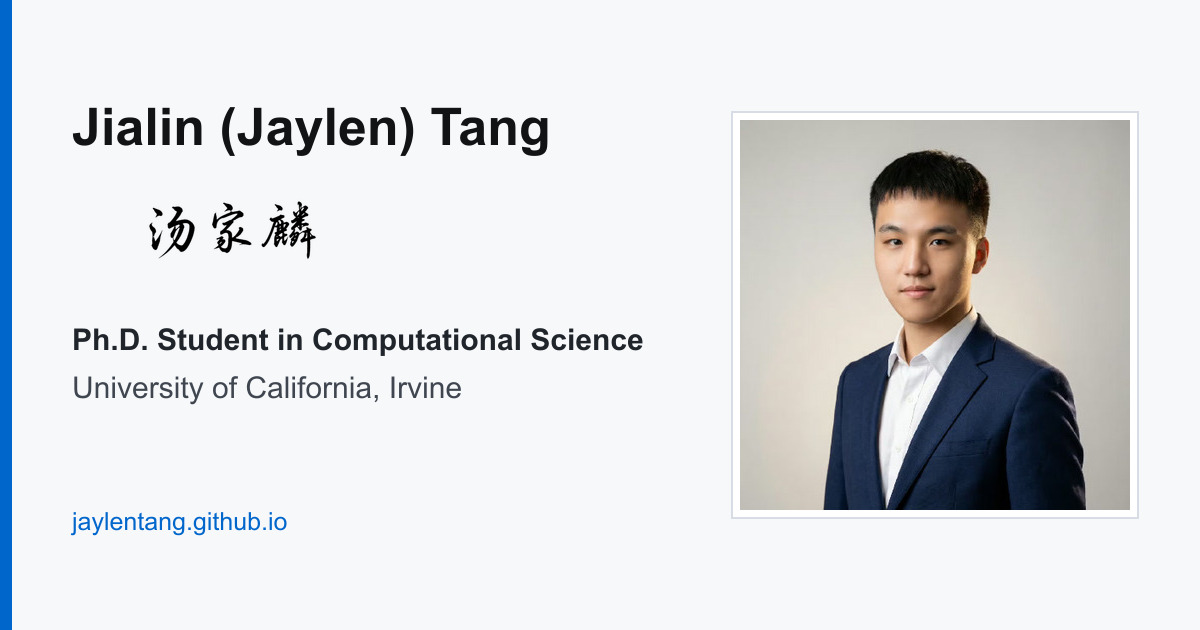
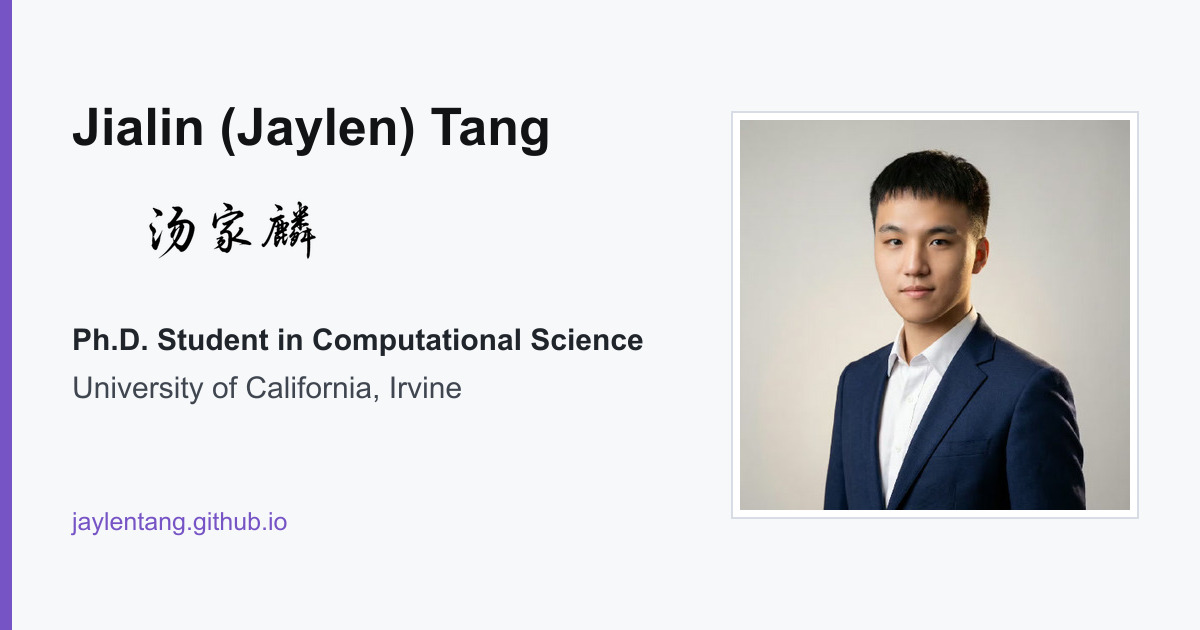
Normalize academic site content data

Changed region(s): [[0.0, 0.0, 0.0308, 1.0], [0.0617, 0.8143, 0.2467, 0.8444]]

diff --git a/_includes/v2-news-list.html b/_includes/v2-news-list.html
@@ -1,0 +1,9 @@
+{% assign news = include.news %}
+<div class="v2-news-list" role="list">
+  {% for item in news %}
+    <article class="v2-news-item" role="listitem">
+      <time datetime="{{ item.date | date: '%Y-%m-%d' }}">{{ item.display_date | escape }}</time>
+      <div class="v2-news-item__content">{{ item.content | markdownify }}</div>
+    </article>
+  {% endfor %}
+</div>

diff --git a/_pages/home-v2.md b/_pages/home-v2.md
@@ -48,44 +48,7 @@ redirect_from:
 
   <section class="v2-section v2-news" aria-labelledby="v2-news-title">
     <h2 id="v2-news-title">news</h2>
-    <ol class="v2-news-list">
-      <li class="v2-news-item">
-        <time datetime="2026-06-17">Jun 17, 2026</time>
-        <p><a href="https://doi.org/10.1109/JSTARS.2026.3705708">HyperMODE</a> was accepted for publication in <a href="https://www.grss-ieee.org/publications/journal-of-selected-topics-in-applied-earth-observations-and-remote-sensing/"><em>IEEE Journal of Selected Topics in Applied Earth Observations and Remote Sensing</em></a> (JSTARS).</p>
-      </li>
-      <li class="v2-news-item">
-        <time datetime="2026-05-16">May 16, 2026</time>
-        <p>PRISM-Stain received the 3rd-place poster award at the SABPA OC/LA 18th Annual Biomedical Forum Poster Competition. <a href="https://www.linkedin.com/feed/update/urn:li:activity:7463034204185083904/">post</a></p>
-      </li>
-      <li class="v2-news-item">
-        <time datetime="2026-05-15">May 15, 2026</time>
-        <p>Received the M.S. degree in Computer Science from California State University, Fullerton, with Graduate Academic Honors.</p>
-      </li>
-      <li class="v2-news-item">
-        <time datetime="2026-04-08">Apr 08, 2026</time>
-        <p>Received the <a href="https://grad.sdsu.edu/financial-support/pgrf">Presidential Graduate Research Fellowship</a> for the 2026&ndash;2027 academic year.</p>
-      </li>
-      <li class="v2-news-item">
-        <time datetime="2026-03-27">Mar 27, 2026</time>
-        <p>Defended my M.S. thesis at California State University, Fullerton.</p>
-      </li>
-      <li class="v2-news-item">
-        <time datetime="2026-01-05">Jan 05, 2026</time>
-        <p>Presented our EV wireless charging optimization and ASO efficacy modeling work at the <a href="https://ieee-ccwc.org/">IEEE 16th Annual Computing and Communication Workshop and Conference (CCWC) 2026</a>. <a href="https://www.linkedin.com/feed/update/urn:li:activity:7414165378937044993/">post</a></p>
-      </li>
-      <li class="v2-news-item">
-        <time datetime="2025-11-17">Nov 17, 2025</time>
-        <p><a href="https://ieeexplore.ieee.org/document/11468028">MAS-LLaVA</a> was accepted by the <a href="https://acdsa.org/2026/">IEEE International Conference on Artificial Intelligence, Computer, Data Sciences and Applications (ACDSA) 2026</a>.</p>
-      </li>
-      <li class="v2-news-item">
-        <time datetime="2025-11-14">Nov 14, 2025</time>
-        <p>Invited guest speaker at The 6th Workshop on Enhanced Open Networked Airborne Computing Platform, University of Nevada-Reno, NV. Topic: <em>HyperEAST: A Lightweight Spectral-Spatial Transformer for UAV-Based Hyperspectral Image Classification</em>. <a href="https://www.linkedin.com/feed/update/urn:li:activity:7397103743579688960/">post</a></p>
-      </li>
-      <li class="v2-news-item">
-        <time datetime="2025-08-14">Aug 14, 2025</time>
-        <p><a href="https://doi.org/10.1109/JSTARS.2025.3599855">HyperEAST</a> was accepted for publication in <a href="https://www.grss-ieee.org/publications/journal-of-selected-topics-in-applied-earth-observations-and-remote-sensing/"><em>IEEE Journal of Selected Topics in Applied Earth Observations and Remote Sensing</em></a> (JSTARS).</p>
-      </li>
-    </ol>
+    {% include v2-news-list.html news=site.data.news %}
   </section>
 
   <section id="research" class="v2-section v2-publications" aria-labelledby="v2-publications-title">

diff --git a/_publications/2026-01-03-aso-efficacy.md b/_publications/2026-01-03-aso-efficacy.md
@@ -4,6 +4,34 @@ collection: publications
 category: conferences
 permalink: /publication/2026-01-03-aso-efficacy
 sort_order: 4
+web_visible: true
+publication_year: 2026
+venue_name: "IEEE 16th Annual Computing and Communication Workshop and Conference"
+venue_short: CCWC
+pages: "458-461"
+location: "Las Vegas, NV, USA"
+authors:
+  - name: Ava George
+    short_name: A George
+  - name: Yu Bai
+    short_name: Y Bai
+  - name: Jialin Tang
+    short_name: J Tang
+    self: true
+featured_image: "/images/research-aso-regression.png"
+featured_thumbnail: "/images/research-aso-regression-thumb.webp"
+featured_image_alt: "Regression-based antisense oligonucleotide efficacy modeling framework"
+summary: "Regression modeling of antisense oligonucleotide efficacy using sequence, structural, and off-target features."
+bibtex: |-
+  @inproceedings{george2026aso,
+    title={Regression-Based Modeling of Antisense Oligonucleotide Efficacy Using Sequence, Structural, and Off-Target Features},
+    author={George, Ava and Bai, Yu and Tang, Jialin},
+    booktitle={2026 IEEE 16th Annual Computing and Communication Workshop and Conference (CCWC)},
+    pages={458--461},
+    address={Las Vegas, NV, USA},
+    year={2026},
+    url={https://ieeexplore.ieee.org/document/11393870}
+  }
 excerpt: 'This work models ASO efficacy using sequence, structural, and off-target features.'
 date: 2026-01-03
 venue: 'IEEE 16th Annual Computing and Communication Workshop and Conference (CCWC)'

diff --git a/_publications/2025-01-01-hypereast.md b/_publications/2025-01-01-hypereast.md
@@ -5,10 +5,12 @@ category: journals
 permalink: /publication/2025-01-01-hypereast
 sort_order: 2
 selected: true
+web_visible: true
 publication_year: 2025
 venue_name: "IEEE Journal of Selected Topics in Applied Earth Observations and Remote Sensing"
 venue_short: JSTARS
 volume: 18
+pages: "22241-22255"
 authors:
   - name: Jialin Tang
     short_name: J Tang
@@ -26,6 +28,16 @@ featured_image: "/images/research-hypereast.png"
 featured_thumbnail: "/images/research-hypereast-thumb.webp"
 featured_image_alt: "HyperEAST hyperspectral image classification thumbnail"
 summary: "Self-supervised spectral-spatial representation learning for hyperspectral image classification."
+bibtex: |-
+  @article{tang2025hypereast,
+    title={HyperEAST: An Enhanced Attention-Based Spectral-Spatial Transformer with Self-Supervised Pretraining for Hyperspectral Image Classification},
+    author={Tang, Jialin and Ma, Nan and Jia, Chen and Tian, Rui and Guo, Yanhui},
+    journal={IEEE Journal of Selected Topics in Applied Earth Observations and Remote Sensing},
+    volume={18},
+    pages={22241--22255},
+    year={2025},
+    doi={10.1109/JSTARS.2025.3599855}
+  }
 excerpt: 'We propose HyperEAST, an enhanced attention-based spectral-spatial transformer with self-supervised pretraining for hyperspectral image classification.'
 date: 2025-01-01
 venue: 'IEEE Journal of Selected Topics in Applied Earth Observations and Remote Sensing (JSTARS)'

diff --git a/_publications/2026-01-02-ev-wireless-charging.md b/_publications/2026-01-02-ev-wireless-charging.md
@@ -4,6 +4,32 @@ collection: publications
 category: conferences
 permalink: /publication/2026-01-02-ev-wireless-charging
 sort_order: 5
+web_visible: true
+publication_year: 2026
+venue_name: "IEEE 16th Annual Computing and Communication Workshop and Conference"
+venue_short: CCWC
+pages: "454-457"
+location: "Las Vegas, NV, USA"
+authors:
+  - name: Ava George
+    short_name: A George
+  - name: Jialin Tang
+    short_name: J Tang
+    self: true
+featured_image: "/images/research-ev-charging.png"
+featured_thumbnail: "/images/research-ev-charging-thumb.webp"
+featured_image_alt: "Proximal policy optimization for EV wireless charging energy management"
+summary: "Proximal policy optimization for energy management and efficiency in EV wireless charging."
+bibtex: |-
+  @inproceedings{george2026evcharging,
+    title={Optimizing Energy Management Strategy for EV Wireless Charging Efficiency Using Proximal Policy Optimization},
+    author={George, Ava and Tang, Jialin},
+    booktitle={2026 IEEE 16th Annual Computing and Communication Workshop and Conference (CCWC)},
+    pages={454--457},
+    address={Las Vegas, NV, USA},
+    year={2026},
+    url={https://ieeexplore.ieee.org/document/11393703}
+  }
 excerpt: 'This work applies proximal policy optimization to energy management for EV wireless charging efficiency.'
 date: 2026-01-02
 venue: 'IEEE 16th Annual Computing and Communication Workshop and Conference (CCWC)'

diff --git a/_publications/2026-01-04-hypermode.md b/_publications/2026-01-04-hypermode.md
@@ -5,10 +5,12 @@ category: journals
 permalink: /publication/2026-01-04-hypermode
 sort_order: 1
 selected: true
+web_visible: true
 publication_year: 2026
 venue_name: "IEEE Journal of Selected Topics in Applied Earth Observations and Remote Sensing"
 venue_short: JSTARS
 volume: 19
+pages: "21474-21491"
 authors:
   - name: Jialin Tang
     short_name: J Tang
@@ -24,6 +26,16 @@ featured_image: "/images/research-hypermode.png"
 featured_thumbnail: "/images/research-hypermode-thumb.webp"
 featured_image_alt: "HyperMODE hyperspectral modeling thumbnail"
 summary: "Continuous-depth spectral-spatial modeling that combines sequence modeling with neural ODE dynamics."
+bibtex: |-
+  @article{tang2026hypermode,
+    title={HyperMODE: A Continuous-Depth Spectral-Spatial Modeling Framework with Mamba and Neural Ordinary Differential Equations for Hyperspectral Image Classification},
+    author={Tang, Jialin and Lou, Yunduan and Guo, Yanhui and Bai, Yu},
+    journal={IEEE Journal of Selected Topics in Applied Earth Observations and Remote Sensing},
+    volume={19},
+    pages={21474--21491},
+    year={2026},
+    doi={10.1109/JSTARS.2026.3705708}
+  }
 excerpt: 'HyperMODE is a continuous-depth spectral-spatial modeling framework for hyperspectral image classification.'
 date: 2026-06-17
 venue: 'IEEE Journal of Selected Topics in Applied Earth Observations and Remote Sensing (JSTARS)'

diff --git a/_publications/2026-01-01-mas-llava.md b/_publications/2026-01-01-mas-llava.md
@@ -5,6 +5,7 @@ category: conferences
 permalink: /publication/2026-01-01-mas-llava
 sort_order: 3
 selected: true
+web_visible: true
 publication_year: 2026
 venue_name: "IEEE International Conference on Artificial Intelligence, Computer, Data Sciences and Applications"
 venue_short: ACDSA
@@ -18,6 +19,14 @@ featured_image: "/images/research-mas-llava.png"
 featured_thumbnail: "/images/research-mas-llava-thumb.webp"
 featured_image_alt: "MAS-LLaVA video sampling thumbnail"
 summary: "Motion-aware token and frame sampling for efficient training-free video large language model inference."
+bibtex: |-
+  @inproceedings{tang2026masllava,
+    title={MAS-LLaVA: Motion-Aware Adaptive Sampling for Training-Free Video Large Language Models},
+    author={Tang, Jialin and Bai, Yu},
+    booktitle={2026 International Conference on Artificial Intelligence, Computer, Data Sciences and Applications (ACDSA)},
+    year={2026},
+    url={https://ieeexplore.ieee.org/document/11468028}
+  }
 excerpt: 'MAS-LLaVA introduces motion-aware adaptive sampling for training-free video large language models.'
 date: 2026-01-01
 venue: 'IEEE International Conference on Artificial Intelligence, Computer, Data Sciences and Applications (ACDSA)'
